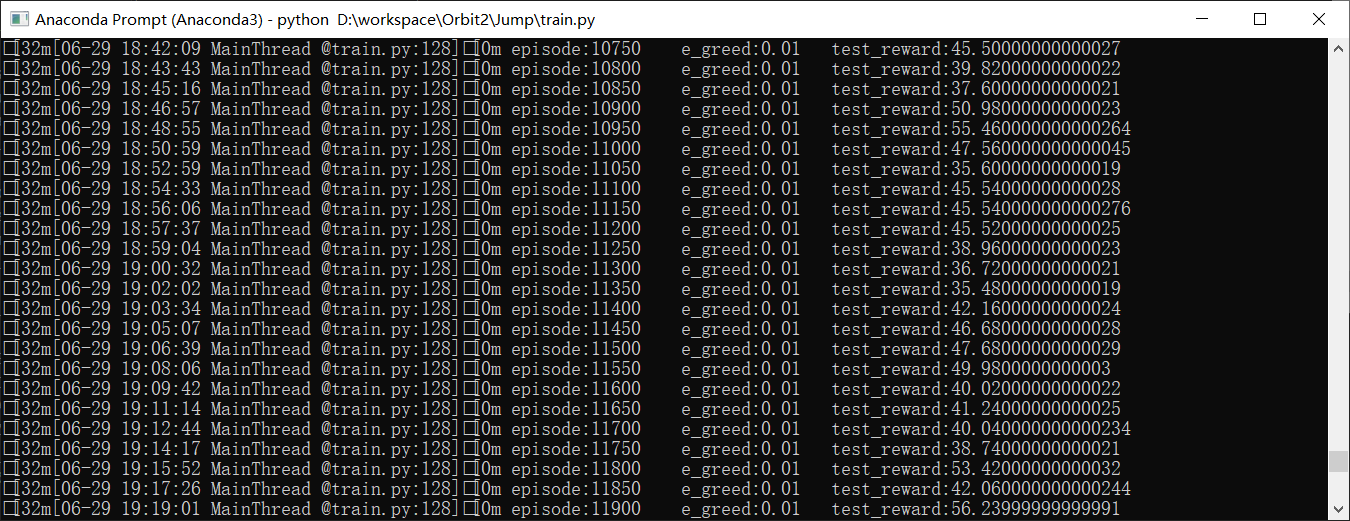
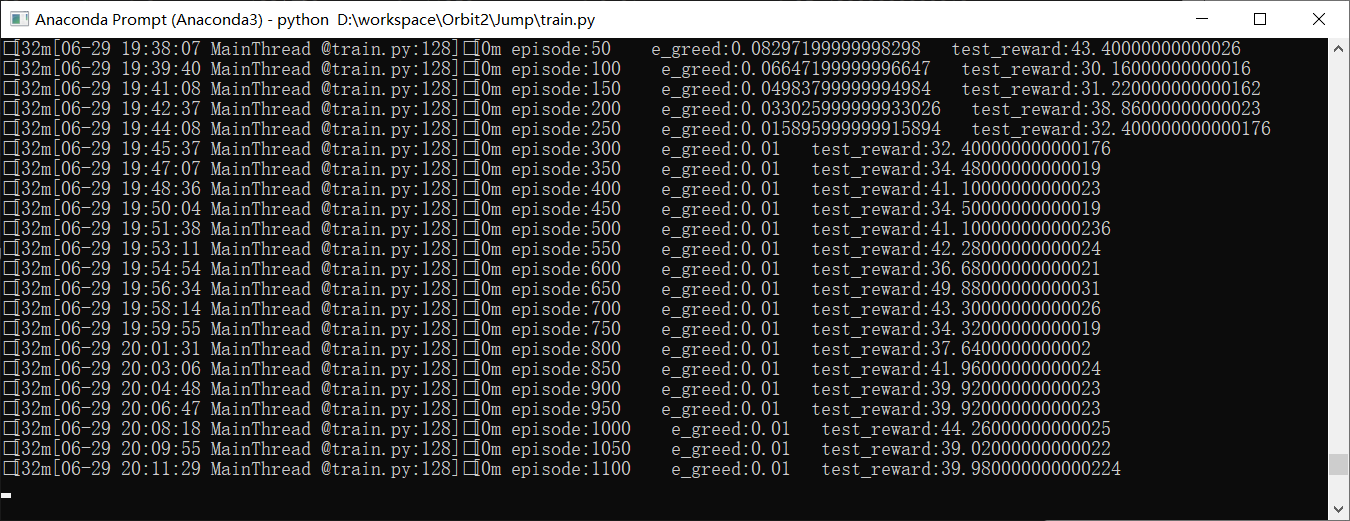
update evaluate.png

Changed region(s): [[0.0, 0.0614, 1.0, 1.0]]

diff --git a/Jump/README.md b/Jump/README.md
@@ -8,7 +8,7 @@ pip install paddlepaddle==1.6.3 -i  http://mirrors.aliyun.com/pypi/simple/ --tru
 pip install parl==1.3.1 -i  http://mirrors.aliyun.com/pypi/simple/ --trusted-host mirrors.aliyun.com  
 pip install gym  
 2.游戏代码库：  
-flappy代码库：https://github.com/ntasfi/PyGame-Learning-Environment
+Jump代码库：https://github.com/shivaverma/Orbit 
 
 二、代码说明  
 1.算法  
@@ -17,7 +17,7 @@ flappy代码库：https://github.com/ntasfi/PyGame-Learning-Environment
 主要是和环境交互的部分要修改下才能用：  
 obs,action这两个部分  
 三、运行结果  
-1.代码几乎不用修改就可以得到高分。reward 4000+
+1.reward 50+
 
 ![avatar](./evaluate.png)
 ![avatar](./show.gif)
